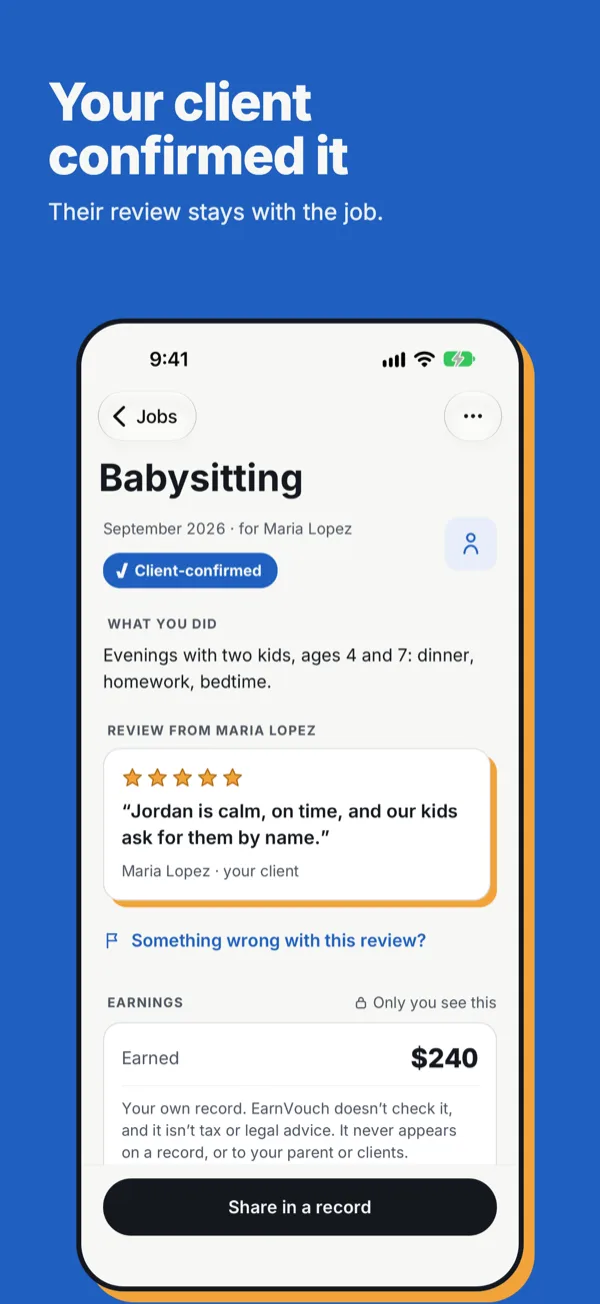
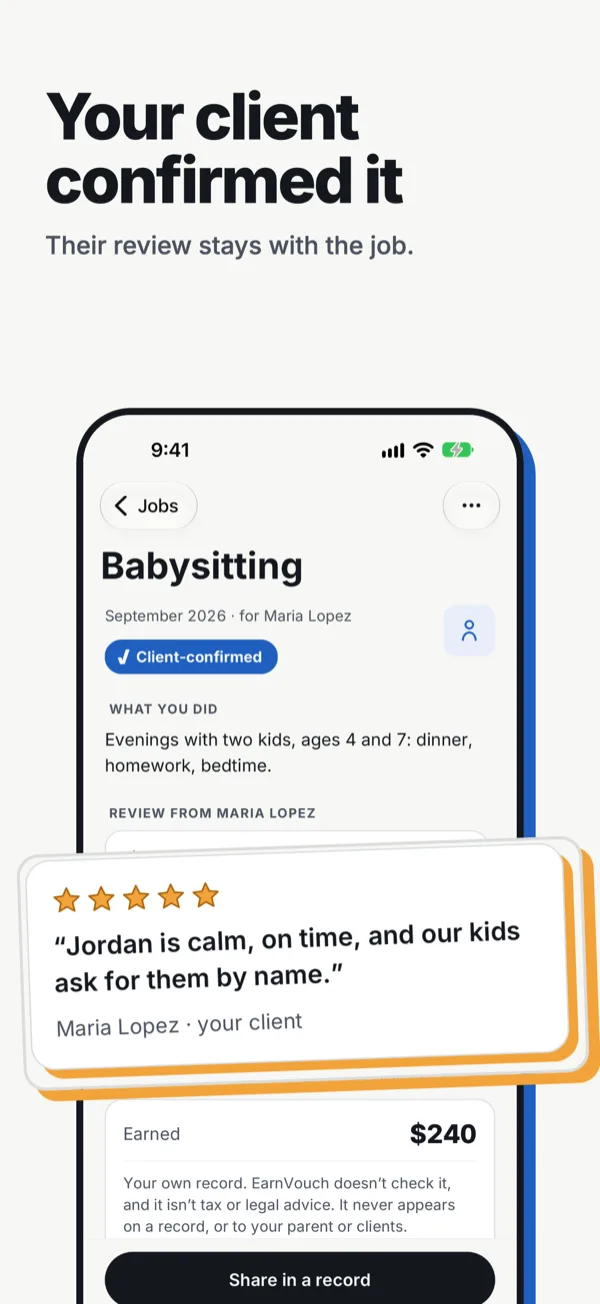
EarnVouch: use the new multi-color App Store screenshots

diff --git a/index.html b/index.html
@@ -586,8 +586,8 @@
         <div class="phones">
           <img src="images/ev-1-jobs.webp" alt="App Store screenshot: Earn your vouch. The Jobs tab, with every job labeled Client-confirmed or Self-reported" width="600" height="1304" loading="lazy" decoding="async">
           <img src="images/ev-2-job.webp" alt="App Store screenshot: Your client confirmed it. A babysitting job with the client's five-star review" width="600" height="1304" loading="lazy" decoding="async">
+          <img src="images/ev-3-share.webp" alt="App Store screenshot: Choose the jobs you share. Picking client-confirmed jobs for one private link" width="600" height="1304" loading="lazy" decoding="async">
           <img src="images/ev-4-preview.webp" alt="App Store screenshot: See what they'll see. The record page a college or employer opens" width="600" height="1304" loading="lazy" decoding="async">
-          <img src="images/ev-5-earnings.webp" alt="App Store screenshot: Your earnings, just for you. Earnings by year and month" width="600" height="1304" loading="lazy" decoding="async">
         </div>
         <div class="venture-points">
           <div><b>Empty folder to App Store in a month</b>Passed Apple's review on the first submission, then launched in November 2026</div>
